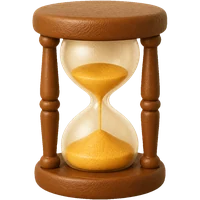
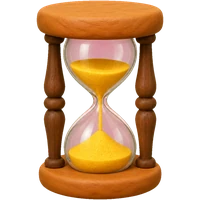
K4 auf ?stil=4, dazu die zwei neuen Hero-Objekte
Die Kapitelziffer wird zum Bauteil: gross und in Kontur links, die
Ueberschrift fliesst daneben und darf dafuer auf 52 px zurueck, sonst
kaempfen Ziffer und Schrift um dieselbe Aufmerksamkeit.

Umgesetzt in CSS ueber data-nr und float, nicht als Umbau der sechs
Abschnitte: Kennzeile und Ueberschrift sind dort ueberall Geschwister,
also genuegt eine Regel. Die kleine Zeile wird nicht geloescht, sondern
auf Schriftgroesse null gesetzt, sie traegt den Abschnittsnamen fuer
Vorlesewerkzeuge. Das brauchte !important, weil die Kennzeile ihre
11,5 px inline traegt und ein Inline-Wert jede Regel ohne !important
schlaegt; ohne das stand "[ 04 ]" klein neben der grossen Ziffer.

Gemessen: mit stil=4 stehen die Ueberschriften bei 52 px statt 75, alle
elf Halte bleiben bei 780 px, kein Ueberlauf.

Dazu die beiden neuen Motive aus Wolfs Zip: Puzzle fuer Teamgeist und
Sanduhr fuer Timing, beide auf ihre Bounding-Box beschnitten,
quadratisch zentriert, auf 200 px gerechnet. Sie sind enger auf das
Motiv geschnitten als die alten, das Quadrat traegt also mehr Luft;
deshalb steigt der Motivanteil von 0,74 auf 0,80 und von 0,78 auf 0,86.

⚠ Der Pruefbericht in der Zip nennt auch category--wissen.png, die
Datei liegt aber nicht bei. Die Lampe fuer "Wissen" ist also noch die
alte.

Claude-Session: https://claude.ai/code/session_019gu6D5asMzeSKsrn25LxZ9

diff --git a/src/pages/OnePage.tsx b/src/pages/OnePage.tsx
@@ -911,9 +911,24 @@ class OnePageInner extends Component<{ lang: Lang }, OPState> {
     );
   }
 
+  /**
+   * Die Kennzeile eines Kapitels.
+   *
+   * Fassung K4 macht aus der Ziffer ein Bauteil statt einer Beschriftung: sie
+   * steht dann gross und in Kontur links neben der Ueberschrift, die daneben
+   * herumfliesst. Das passiert in CSS ueber data-nr und float, damit die
+   * sechs Abschnitte nicht einzeln umgebaut werden muessen; die Ziffer kommt
+   * aus dem Attribut, die kleine Zeile wird ausgeblendet.
+   *
+   * Der Anlass: Wolf am 28.08., "wenn man den hero scrollt wirkt der rest
+   * langweilig". Nach Groesse und Bewegung fehlte den Kapiteln noch ein
+   * Anker, den der Hero mit seiner Objektgruppe hat. Die Ziffer ist der
+   * einzige, den wir nicht erfinden muessen, es gibt sie ohnehin.
+   */
   kicker(label: string) {
+    const nr = (label.split('|')[0].match(/\d+/) || [''])[0];
     return (
-      <div data-reveal="" style={sx('display:flex;align-items:center;gap:12px;margin:0 0 14px;font-size:11.5px;font-weight:900;letter-spacing:.2em;text-transform:uppercase;color:rgba(246,239,230,.62);white-space:nowrap')}>
+      <div data-reveal="" data-nr={nr || undefined} style={sx('display:flex;align-items:center;gap:12px;margin:0 0 14px;font-size:11.5px;font-weight:900;letter-spacing:.2em;text-transform:uppercase;color:rgba(246,239,230,.62);white-space:nowrap')}>
         {label.split('|')[0]}
         <span style={sx('flex:1;height:1px;background:linear-gradient(90deg,rgba(246,239,230,.28),transparent);max-width:180px')}></span>
         <span style={sx('color:rgba(246,239,230,.5)')}>{label.split('|')[1]}</span>
@@ -2345,7 +2360,7 @@ class OnePageInner extends Component<{ lang: Lang }, OPState> {
   render() {
     const L = this.T;
     return (
-      <div data-m="root" data-bew={BEWEGUNG || undefined} style={sx('min-height:100vh;background:#0A0814;width:100%')}>
+      <div data-m="root" data-bew={BEWEGUNG || undefined} data-stil={STIL} style={sx('min-height:100vh;background:#0A0814;width:100%')}>
         <div aria-hidden="true" data-cw-grund=""></div>
         <style>{ONEPAGE_CSS}</style>
         {this.renderHeader()}

diff --git a/src/pages/onepage/css.ts b/src/pages/onepage/css.ts
@@ -245,6 +245,32 @@ a:focus-visible,button:focus-visible,summary:focus-visible,input:focus-visible,s
   }
 }
 
+/* ── K4: die Kapitelziffer als Bauteil ────────────────────────────────────
+   Die Ziffer steht gross und in Kontur links, die Ueberschrift fliesst
+   daneben. Umgesetzt mit float statt mit einem Raster, weil Kennzeile und
+   Ueberschrift in allen sechs Abschnitten Geschwister sind: so bleibt der
+   Aufbau der Abschnitte unangetastet und die Fassung ist eine CSS-Regel
+   und kein Umbau.
+   Die kleine Zeile wird dabei nicht geloescht, sondern ausgeblendet: sie
+   traegt den Abschnittsnamen fuer Vorlesewerkzeuge. */
+@media (min-width:901px){
+  /* font-size:0 mit !important, weil die Kennzeile ihre 11,5 px inline
+     traegt und ein Inline-Wert jede Regel ohne !important schlaegt. Ohne das
+     stand die kleine Zeile "[ 04 ]" neben der grossen Ziffer. */
+  [data-stil="4"] [data-nr]{
+    float:left;display:block;margin:0 30px 6px 0;padding:0;font-size:0!important;
+    font-family:'League Spartan',sans-serif;font-weight:900;
+    line-height:.76;letter-spacing:-.04em;color:transparent;
+    -webkit-text-stroke:1.5px rgba(246,239,230,.26);
+  }
+  [data-stil="4"] [data-nr]::before{content:attr(data-nr);font-size:104px}
+  [data-stil="4"] [data-nr]>span{display:none}
+  /* Die Ueberschrift daneben darf kleiner sein, sonst kaempfen Ziffer und
+     Schrift um dieselbe Aufmerksamkeit. */
+  [data-stil="4"] [data-nr]+h2{font-size:clamp(34px,3.6vw,58px)!important;line-height:.98!important}
+  [data-stil="4"] [data-nr]~p{clear:both}
+}
+
 @media (max-width:900px){
 [data-m=modereihe]{grid-template-columns:1fr!important;gap:28px!important;padding:36px 0!important}
 [data-m=modeobjekt]{justify-content:flex-start!important;height:400px!important}

diff --git a/src/qqKachel.ts b/src/qqKachel.ts
@@ -49,8 +49,12 @@ const FILL: Record<string, number> = {
   // Sanduhr und Puzzle im Hero: eigens gerendert und exakt auf ihre
   // Bounding-Box beschnitten, anders als die App-Motive. Deshalb ein
   // kleinerer Anteil, sonst stossen sie an die Kachelkante.
-  '/assets/obj-sanduhr.webp': 0.74,
-  '/assets/obj-puzzle.webp': 0.78,
+  // 28.08.: neue Fassungen von Wolf. Beide sind enger auf ihr Motiv
+  // beschnitten als die alten, das Quadrat traegt also mehr Luft und der
+  // Anteil darf hoeher liegen. Gemessene Inhaltsflaechen: Sanduhr 510 zu 798,
+  // Puzzle 823 zu 550, beide auf ihre Bounding-Box zugeschnitten.
+  '/assets/obj-sanduhr.webp': 0.80,
+  '/assets/obj-puzzle.webp': 0.86,
   // Die acht Fraktionswappen sind auf ihre Bounding-Box beschnitten und
   // quadratisch zentriert, wie die Anlass-Motive. Das Schild ist hoch und
   // schmal, bei 0.9 stiess es oben und unten an die Kachelkante.
